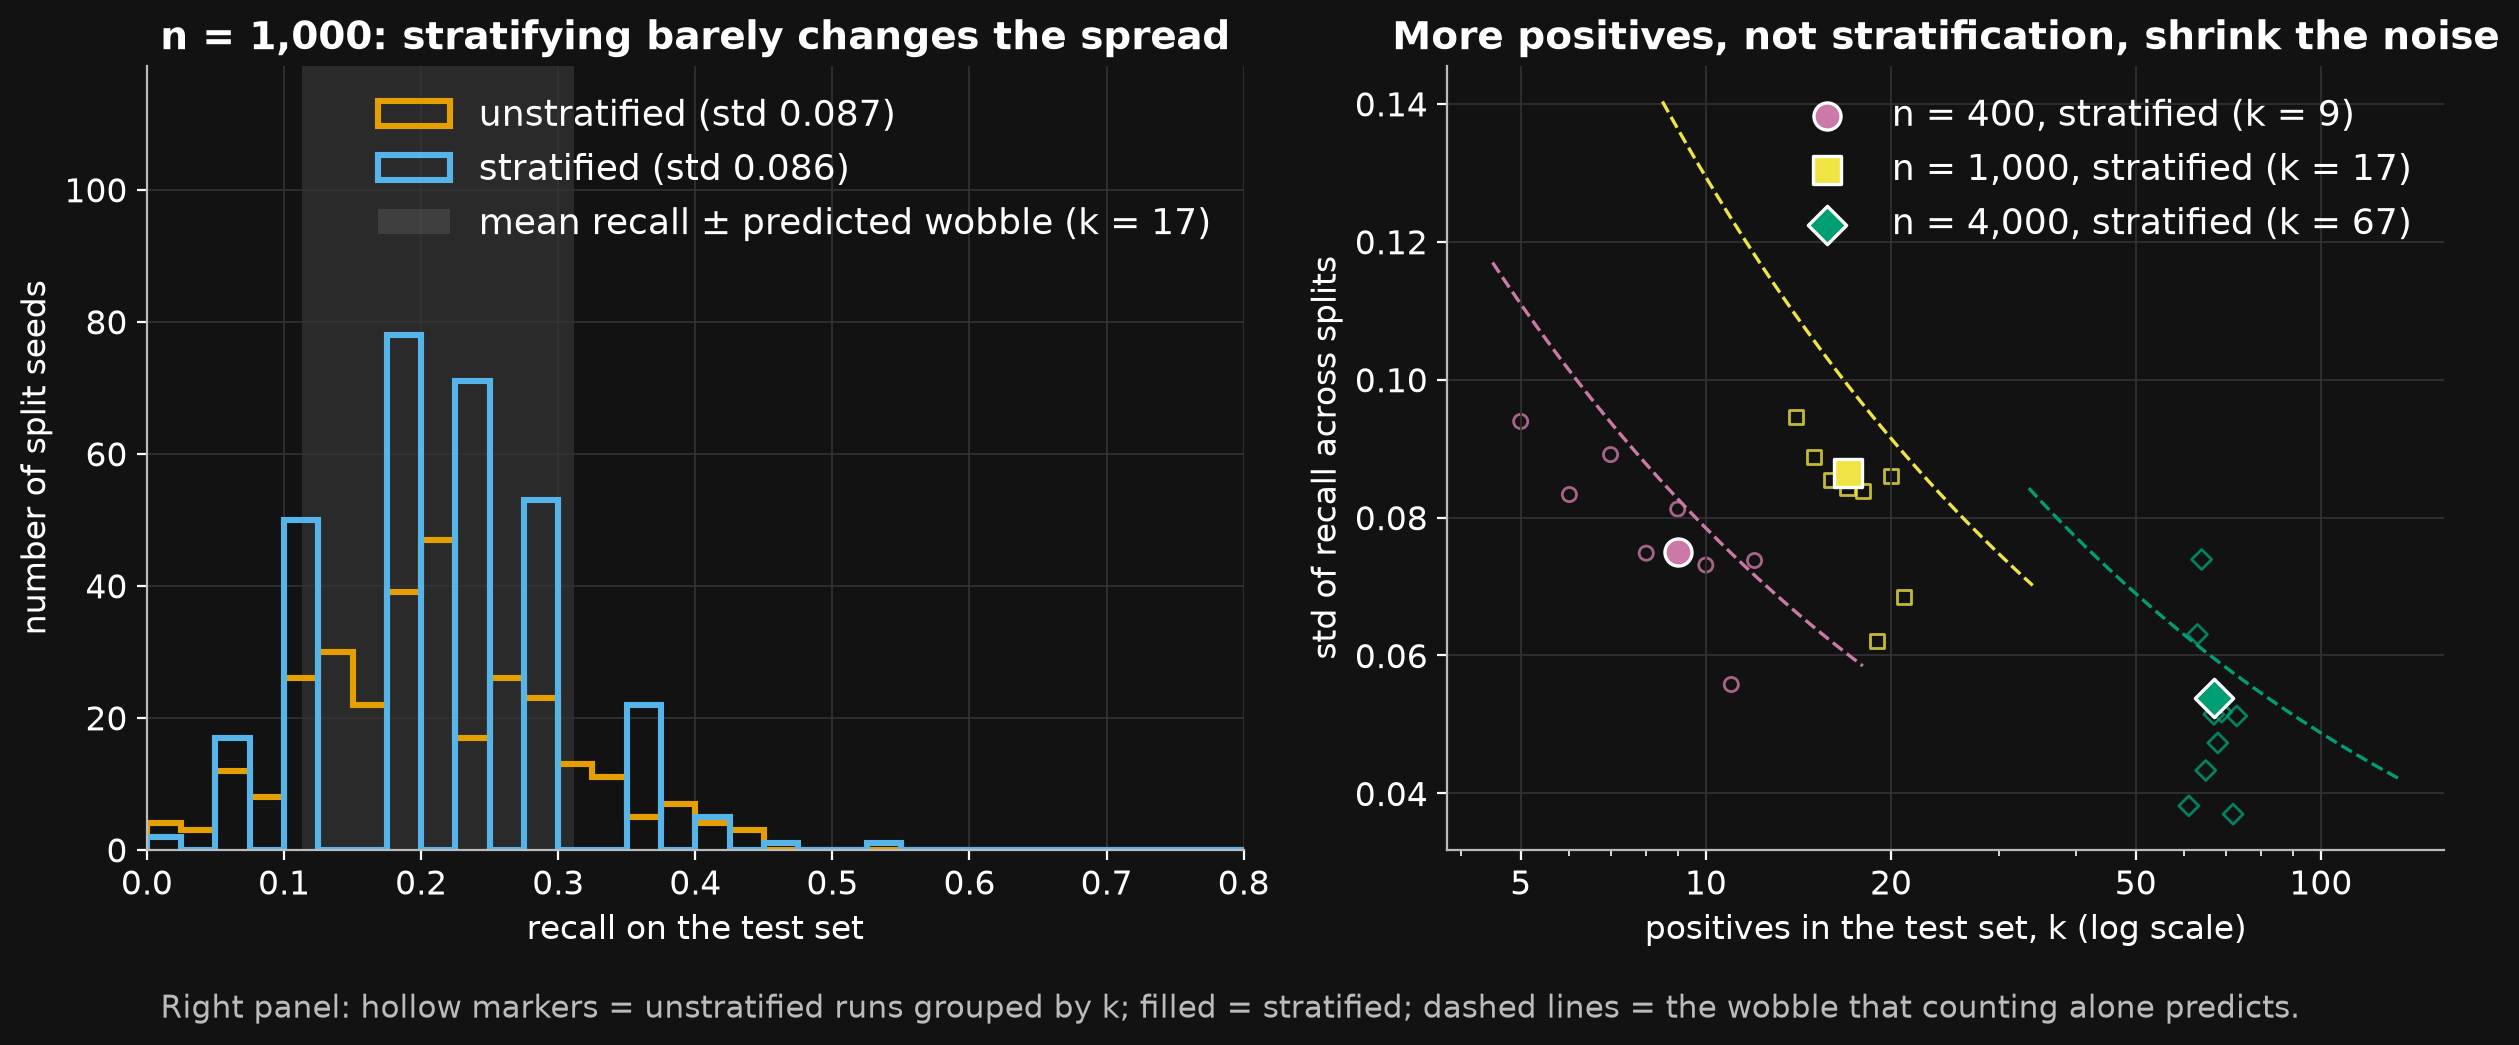
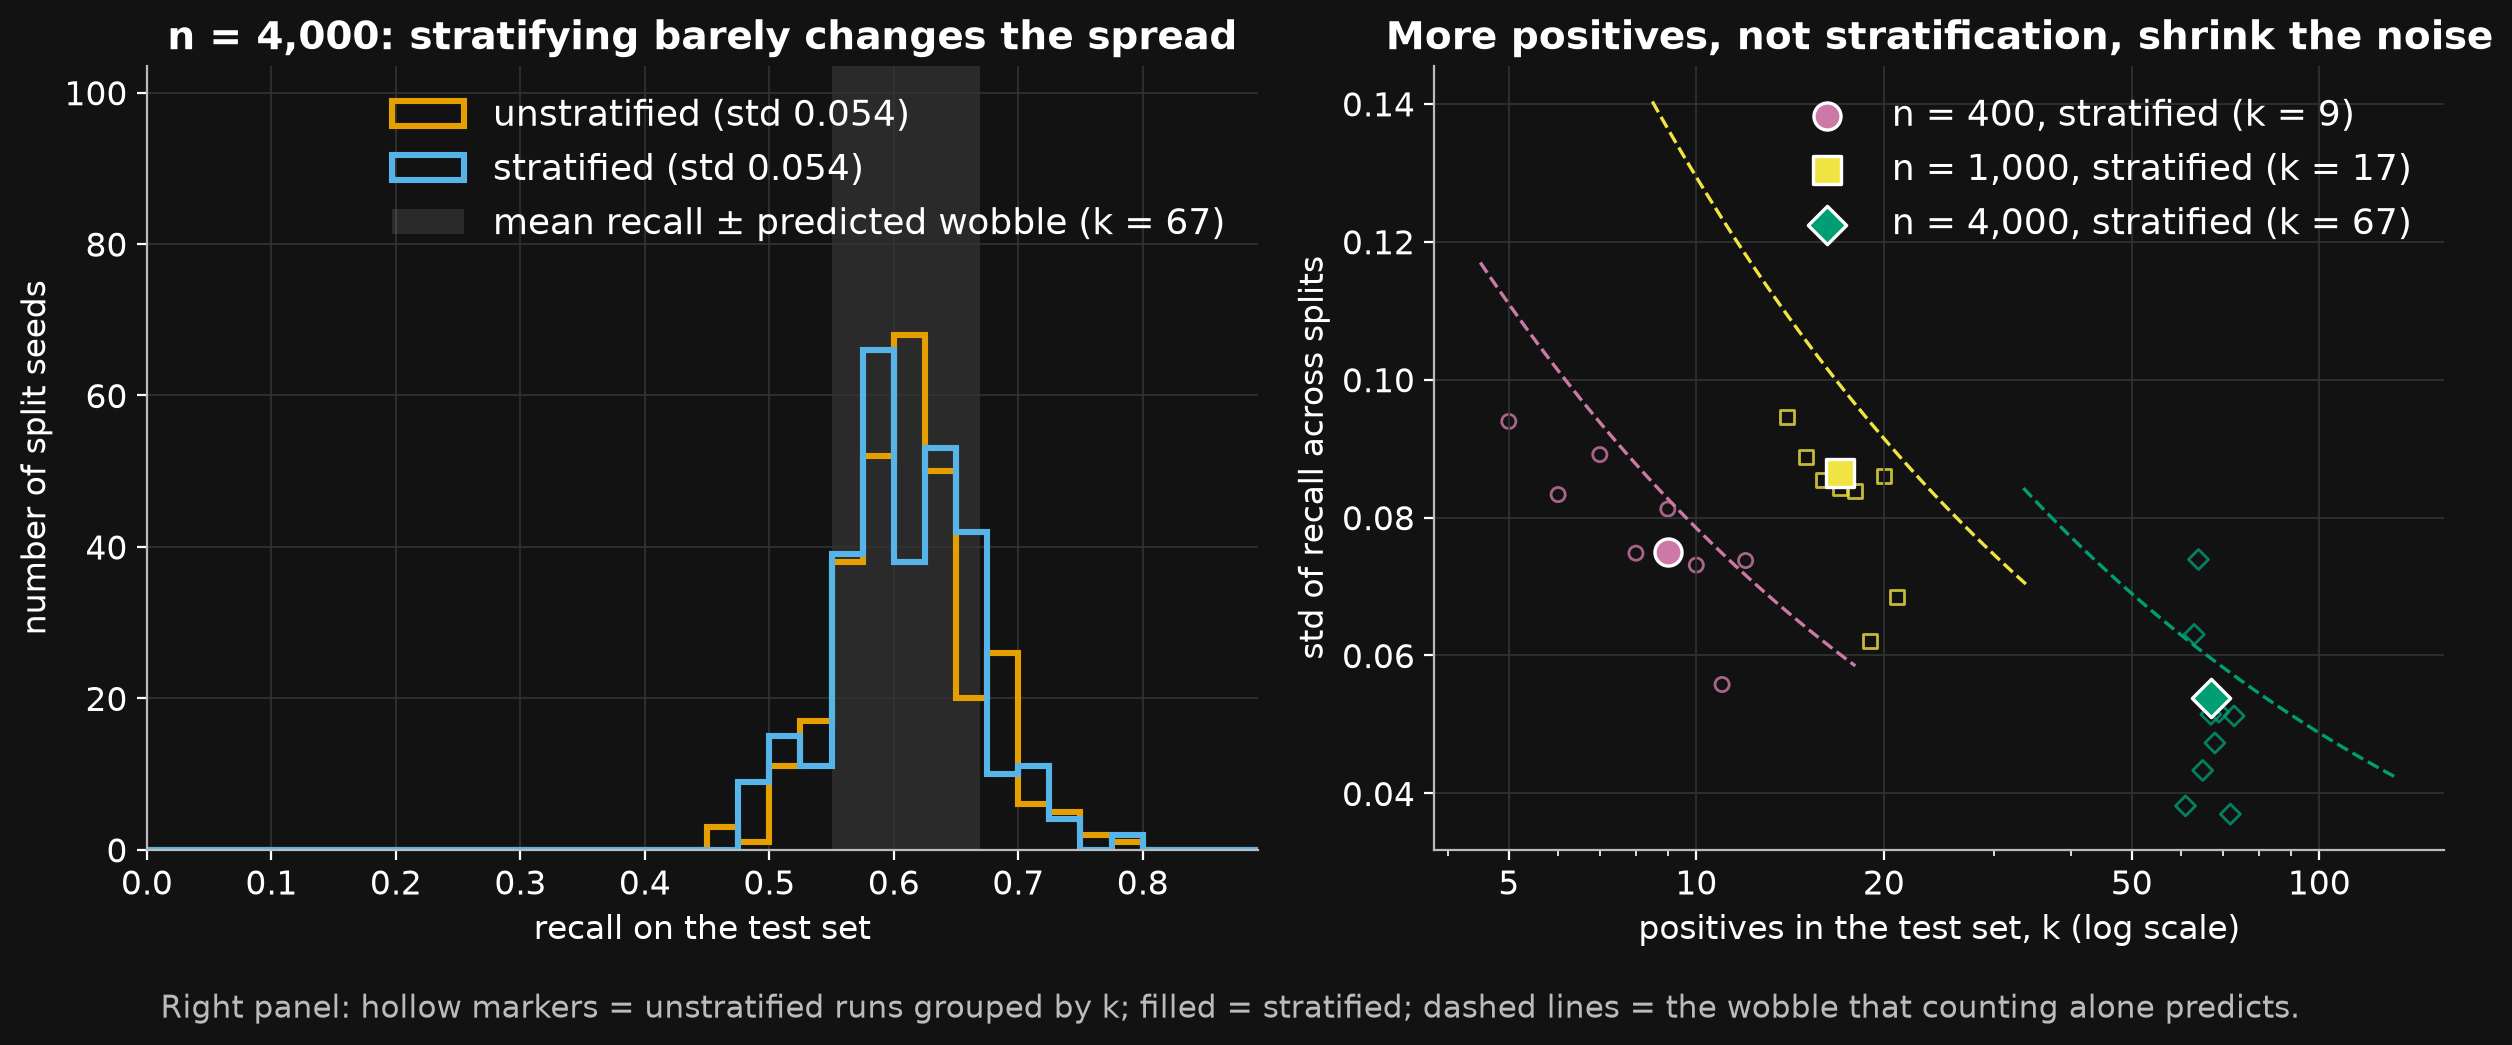
Re-score the R predictions on the strict ratio; figure labels
- e9_views section 6b: the eight registered predictions about R, re-scored on
  the strict same-split ratio (six would fail, two hold); R results unchanged
- e2 left panel shows n = 4,000 (the article's worked example)
- Dials figure labels the bent line "bend 1"
- PREREGISTRATION note on the re-score

diff --git a/experiments/e9_views.py b/experiments/e9_views.py
@@ -299,6 +299,36 @@ def run(out, img=None, quick=False):
         for dial, setting in dict.fromkeys((d_, s_) for (d_, s_, _) in dials):
             s = [strict(dials[dial, setting, j]) for j in range(nd)]
             print(f"{dial}: {setting:<34} strict median {np.median(s):.2f} (min {min(s):.2f}, max {max(s):.2f}); registered R median {np.median([R_of(dials[dial, setting, j]) for j in range(nd)]):.2f}")
+
+        print("\n== 6b. The registered predictions about R, re-scored on the strict ratio (they were written for R and held on R) ==")
+        med_e1 = {(ds, n): np.median([strict(cells_e1[k]) for k in cells_e1 if k[0] == ds and k[1] == n])
+                  for (ds, n, _) in cells_e1}
+        sizes_bc = sorted(n for (ds, n) in med_e1 if ds == "breast_cancer")
+        sizes_sy = sorted(n for (ds, n) in med_e1 if ds == "synthetic")
+        cross = next((f"between n = {a} and n = {b}" for a, b in zip(sizes_sy, sizes_sy[1:])
+                      if med_e1["synthetic", a] >= 1 > med_e1["synthetic", b]), "no crossing")
+        dmed = {(d_, s_): np.median([strict(dials[d_, s_, j]) for j in range(nd)]) for (d_, s_, _) in dials}
+        dkeys = list(dmed)
+        e8med = {name: np.median([strict(main[name, j]) for j in range(n_data)]) for name in DESIGN_TEST_ROWS}
+        verdict = lambda ok: "holds" if ok else "FAILS"  # noqa: E731
+        checks = [
+            ("P1.1 median ratio at n = 150 (breast cancer) >= 2.0", f"{med_e1['breast_cancer', 150]:.2f}", med_e1["breast_cancer", 150] >= 2.0),
+            ("P1.2a breast cancer ratio > 1 at every n", "smallest " + f"{min(med_e1['breast_cancer', n] for n in sizes_bc):.2f}",
+             all(med_e1["breast_cancer", n] > 1 for n in sizes_bc)),
+            ("P1.2b synthetic crosses 1 between n = 250 and n = 1,000", cross, cross.startswith("between n = 250") or cross.startswith("between n = 500")),
+            ("P8.1 every design has median ratio >= 4", ", ".join(f"{v:.1f}" for v in e8med.values()), all(v >= 4 for v in e8med.values())),
+            ("P8.2 the largest design median ratio >= 10", f"{max(e8med.values()):.1f}", max(e8med.values()) >= 10),
+            ("P8.3 D1: ratio >= 3 at bend 0 and < 1 at bend 2", f"{dmed[dkeys[0]]:.2f} and {dmed[dkeys[4]]:.2f}", dmed[dkeys[0]] >= 3 and dmed[dkeys[4]] < 1),
+            ("P8.4 D2: bend 1 < 1 at n = 1,000 and 3,000; bend 0 > 1 at every n",
+             f"bend 1: {dmed[dkeys[11]]:.2f}, {dmed[dkeys[12]]:.2f}; bend 0 smallest {min(dmed[k] for k in dkeys[5:9]):.2f}",
+             dmed[dkeys[11]] < 1 and dmed[dkeys[12]] < 1 and all(dmed[k] > 1 for k in dkeys[5:9])),
+            ("P8.5 D3: lower at g = 1,000 than at g = 50, and > 1 at every g",
+             f"{dmed[dkeys[16]]:.2f} vs {dmed[dkeys[13]]:.2f}; smallest {min(dmed[k] for k in dkeys[13:17]):.2f}",
+             dmed[dkeys[16]] < dmed[dkeys[13]] and all(dmed[k] > 1 for k in dkeys[13:17])),
+        ]
+        for text, value, ok in checks:
+            print(f"{text}: strict {value} -> {verdict(ok)}")
+        print(f"on the strict ratio, {sum(not c[2] for c in checks)} of these {len(checks)} predictions (all of which held on R) would fail")
     if img:
         plot_pairing(same, diff, os.path.join(img, "e9a_same_vs_different.png"),
                      label="Lab-built dataset: a 100-row golden set where 1 label in 5 is disputed (the hero's dataset, 200 splits).\n"

diff --git a/experiments/e8_tailored.py b/experiments/e8_tailored.py
@@ -427,7 +427,7 @@ def plot_dials(dcells, nd, path):
     ax.fill_between(ns, *span(range(9, 13)), color=verm, alpha=0.18, lw=0)
     ax.plot(ns, r0, color=sky, label="straight boundary", **style)
     ax.plot(ns, r1, color=verm, label="bent boundary (bend 1)", **style)
-    for r_, col_, label_ in ((r0, sky, "straight\nboundary"), (r1, verm, "bent\nboundary")):   # label the lines directly: no legend box over the data
+    for r_, col_, label_ in ((r0, sky, "straight\nboundary"), (r1, verm, "bent\n(bend 1)")):   # label the lines directly: no legend box over the data
         ax.text(3400, r_[-1], label_, color=col_, fontsize=22, fontweight="bold", va="center", ha="left", linespacing=0.95)
     ax.set_xscale("log")
     ax.set_xticks(ns, [f"{n:,}" for n in ns])

diff --git a/experiments/e2_imbalance.py b/experiments/e2_imbalance.py
@@ -113,7 +113,7 @@ def figure(df, stats, img):
     from experiments.common import OKABE_ITO, dark_style, fmt, save_fig
     plt = dark_style()
     fig, (a1, a2) = plt.subplots(1, 2, figsize=(12.5, 5), gridspec_kw={"width_ratios": [1.1, 1]})
-    n = 1000
+    n = 4000                                                    # the article's worked example
     d = df[df.n == n]
     bins = np.linspace(0, 1, 41)
     for setting, c in (("unstratified", OKABE_ITO["orange"]), ("stratified", OKABE_ITO["sky"])):

diff --git a/PREREGISTRATION.md b/PREREGISTRATION.md
@@ -219,4 +219,4 @@ Predictions:
 
 **E9 descriptive views (NOT pre-registered, appended 2026-11-06 while revising the article for plainer language).** `experiments/e9_views.py` reads the saved E1, E5 and E8 CSVs, with no refitting. Its five sections were all chosen after seeing the results (the last two added the same day, after independent review v6 and v7): (1) who finishes first on each split; (2) how much of the seed swing the size of the test set alone predicts, √(a(1−a)/n) (observed 0.72 to 0.99 of the prediction across settings; 3.86 vs 3.94 pts on the hero dataset); (3) how much noise is removed by scoring two models on the same split, pooled over the 28 model pairs of the hero dataset: the gap's spread is 0.59 pts on the same split and 5.57 pts across different splits (9.4×), and the worse model looks better on 6.4% vs 46.0% of comparisons; on the real 150-row data the ratio is 1.3×; the "different splits" pairing shifts each model's splits by one place, and over all 199 possible shifts the ratio averages 8.9× and the worse model looks better on 45.4% (section 3b); (4) the tie rule for two models scored on the same test set: among d disagreements the lead is a fair-coin count with a typical size of √d, so a lead under 2√d is a tie (15 disagreements on 300 rows: a lead of 7 or fewer); (5) a re-reading of the E5 random-forest and gradient-boosting grid: changing only the split swings a score by 3.29 and 3.47 pts, changing only the model's own seed on one fixed split by 2.40 and 2.42 pts, and 33.4% of all the movement sits inside one (model, split) cell. This corrects the article's earlier wording that the model's own seed was "a rounding error": the 0.4% main effect of a seed number hides the seed-by-split interaction (`results/e9_views.txt`, `images/e9a_same_vs_different.png`).
 
-**Presentation and descriptive additions (NOT pre-registered, appended 2026-11-06, third review round).** (a) The article's hero is now the like-for-like view of the same E8 hero dataset: on each split, the 8 models' scores centred on that split's average (spread 0.43 pts, the per-split spread from `results/e8_descriptive.txt`) against logistic regression across splits (3.73 pts): 8.7×. The pre-registered metric R (one model's swing over the spread of the models' 200-split averages: 30.8 for this design, 30.9 for logistic regression) is unchanged and still reported; the earlier hero is kept as `images/e8a_averages_vs_runs.png`. No refit; `experiments/e8_tailored.py --redraw`. (b) `experiments/e1_minimal.py` is the article's opening scene as one self-contained script (same seeds, data and models as E1's first subsample at n = 150); it reproduces E1's printed numbers exactly (`results/e1_minimal.txt`). (c) `experiments/e10_mcnemar.py` applies the "count the disagreements" check (exact McNemar test next to the 2√d rule of thumb) to 1,000 random 300-query golden sets drawn from the E7 router test queries; the rule and the exact test agree on 96.7% of golden sets (`results/e10_mcnemar.txt`). (d) From the same round on, the article reports the strict, like-for-like wobble ratio everywhere (one model's swing over the spread of the models on the same split), for the designs, the real data and the dials, with the registered R named once; both are printed side by side in `results/e9_views.txt` section 6, and the strict ratio is always the smaller (real data at n = 150: median 1.22 strict against 2.42 registered). The dials figure now plots the strict ratio; `results/e8_dials.txt` keeps the registered one. `experiments/e1_minimal.py` prints the strict ratio (0.86 on the opening subsample).
+**Presentation and descriptive additions (NOT pre-registered, appended 2026-11-06, third review round).** (a) The article's hero is now the like-for-like view of the same E8 hero dataset: on each split, the 8 models' scores centred on that split's average (spread 0.43 pts, the per-split spread from `results/e8_descriptive.txt`) against logistic regression across splits (3.73 pts): 8.7×. The pre-registered metric R (one model's swing over the spread of the models' 200-split averages: 30.8 for this design, 30.9 for logistic regression) is unchanged and still reported; the earlier hero is kept as `images/e8a_averages_vs_runs.png`. No refit; `experiments/e8_tailored.py --redraw`. (b) `experiments/e1_minimal.py` is the article's opening scene as one self-contained script (same seeds, data and models as E1's first subsample at n = 150); it reproduces E1's printed numbers exactly (`results/e1_minimal.txt`). (c) `experiments/e10_mcnemar.py` applies the "count the disagreements" check (exact McNemar test next to the 2√d rule of thumb) to 1,000 random 300-query golden sets drawn from the E7 router test queries; the rule and the exact test agree on 96.7% of golden sets (`results/e10_mcnemar.txt`). (d) From the same round on, the article reports the strict, like-for-like wobble ratio everywhere (one model's swing over the spread of the models on the same split), for the designs, the real data and the dials, with the registered R named once; both are printed side by side in `results/e9_views.txt` section 6, and the strict ratio is always the smaller (real data at n = 150: median 1.22 strict against 2.42 registered). The dials figure now plots the strict ratio; `results/e8_dials.txt` keeps the registered one. `experiments/e1_minimal.py` prints the strict ratio (0.86 on the opening subsample). The eight predictions above that are about R were written for R and held on R; re-scored on the strict ratio (`results/e9_views.txt` section 6b), six of them would fail (P1.1, P1.2a, P1.2b, P8.1, P8.2, P8.3) and two still hold (P8.4, P8.5). The article reports this.
